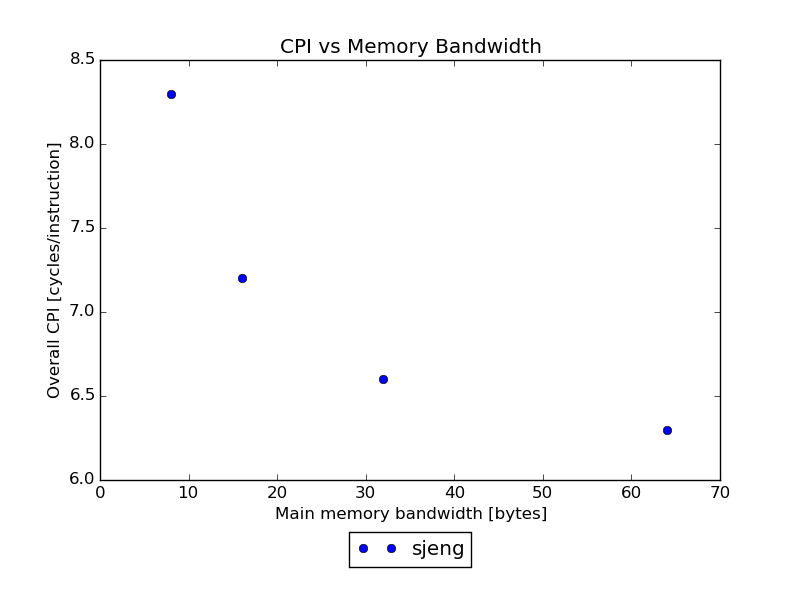
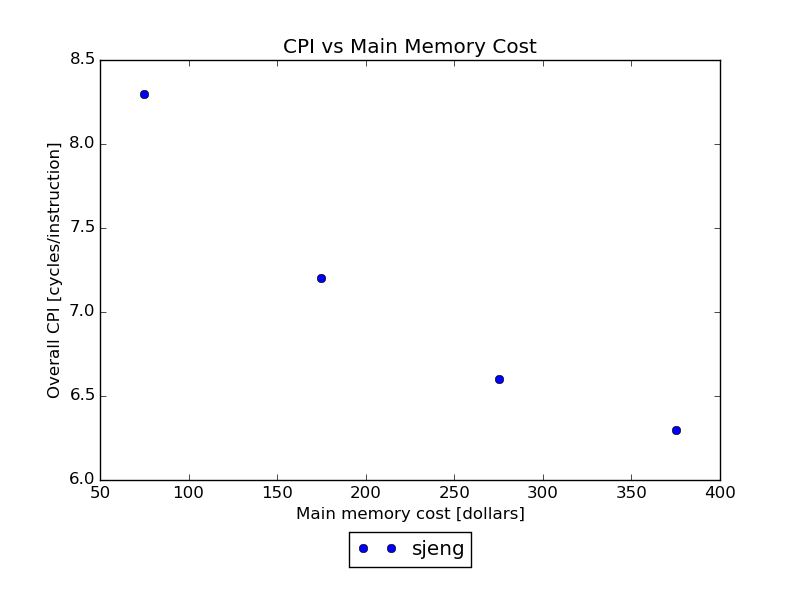
update axis title on main mem cost plot

diff --git a/support/stats.py b/support/stats.py
@@ -481,7 +481,7 @@ if __name__ == "__main__":
     #             lambda r: r.memory_system.main_mem.cost)
     #plot_results(traces, configs,
     #             'CPI vs Main Memory Cost',
-    #             'Main memory cost [cycles/instruction]',
+    #             'Main memory cost [dollars]',
     #             'Overall CPI [cycles/instruction]',
     #             lambda r: r.memory_system.main_mem.cost,
     #             lambda r: r.cycles.cpi)
